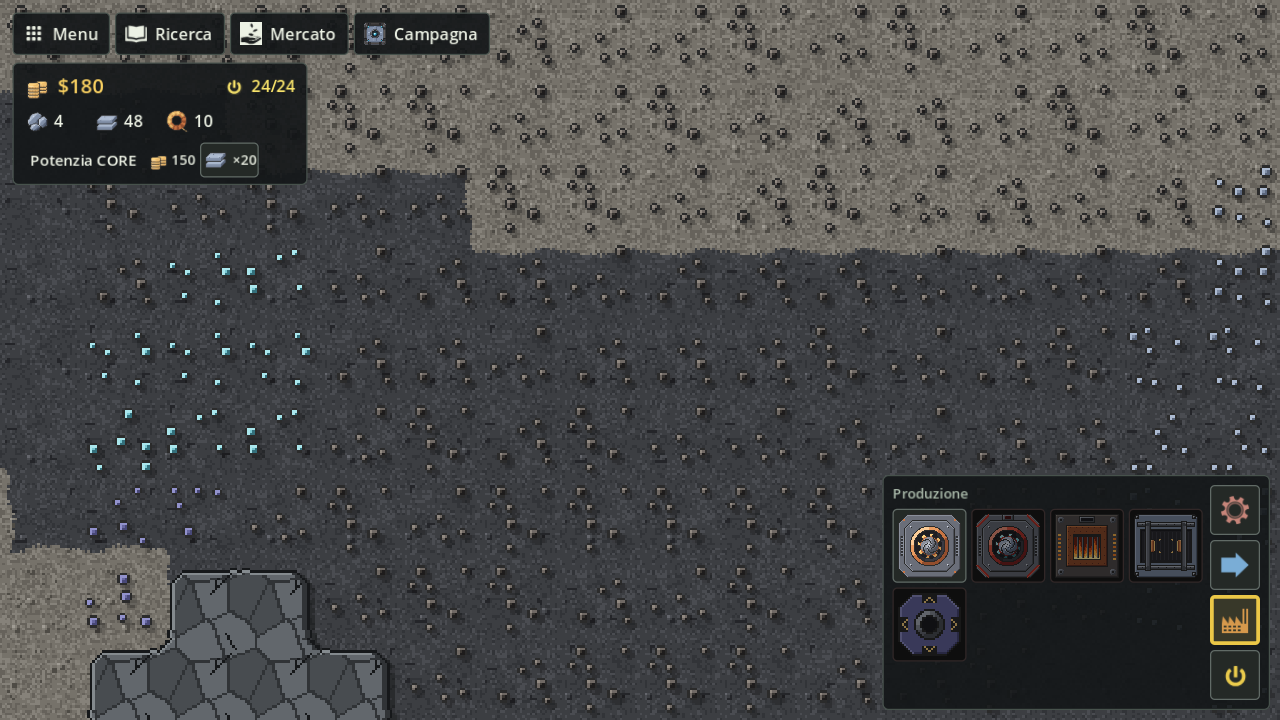
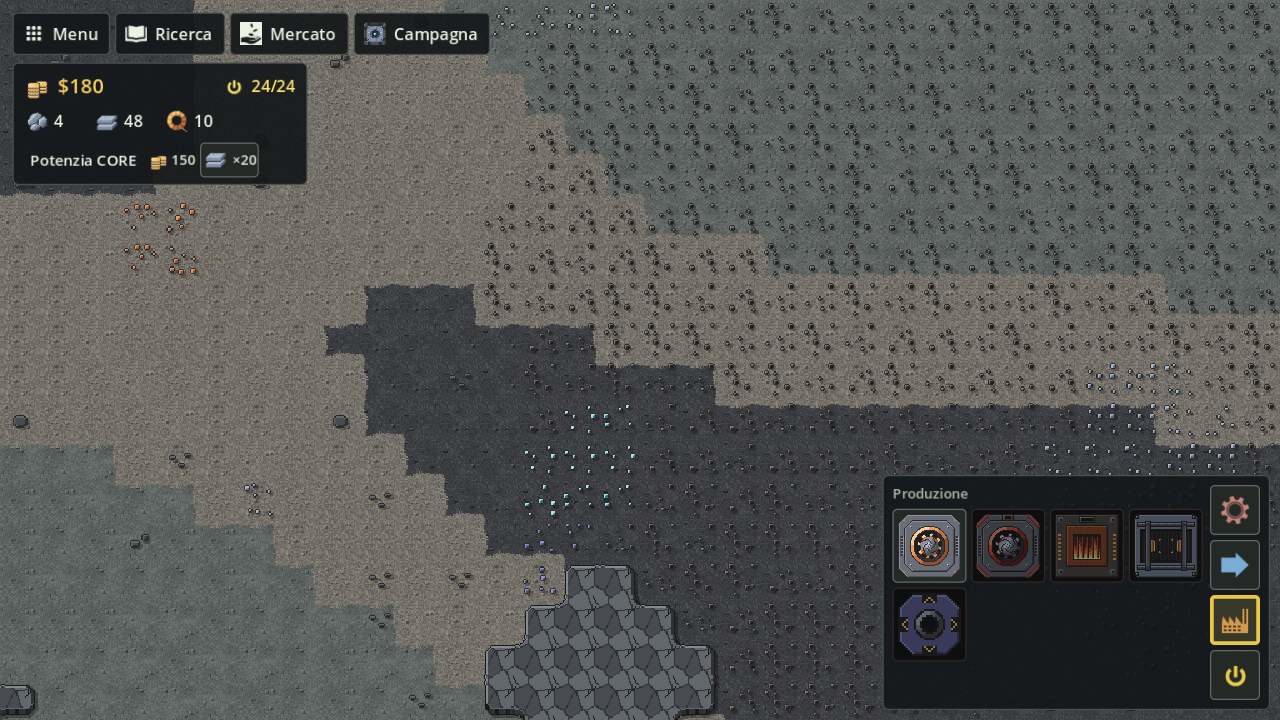
fix: ondata finale della G2b (documenti, colori medi, budget di composizione)
- ARCHITETTURA: mappa delle cartelle, sezione Client e ciclo di un frame
  con i due livelli di dettaglio (TerrainComposer, TerrainLook,
  water.gdshader, pezzi a colori 64x64 e d'arte 16x16); tavola-terreno e
  rampa in palette.py nei passi per lo sprite di un suolo.
- ATTRIBUTION: le famiglie di sprite del terreno tra la pixel-art
  originale generata.
- Decorazioni della sabbia: ciuffi secchi e una lastra chiara, niente
  ovali color rame.
- Client: i pezzi a colori usano il colore medio dell'arte di suoli e
  pareti (tabella invariata); composizione d'arte fermata oltre 3 ms per
  frame (almeno un pezzo); tetto della cache documentato (o i pezzi che
  la vista tocca).
- Playtest: cattura dei minerali a zoom 0,5 con tutti e 5; ERROR se
  l'arte non e' pronta; la prova PERF misura la memoria video.
- Catture del README e base candidata rigenerate; ADR 0004 e CHANGELOG.

diff --git a/godot/scripts/world/TerrainChunks.cs b/godot/scripts/world/TerrainChunks.cs
@@ -28,11 +28,20 @@ public partial class TerrainChunks : Node2D
     /// <summary>Cells a side of an art chunk: 512×512 px, 1 MiB of texture.</summary>
     public const int ArtChunkCells = 16;
 
-    /// <summary>Most art chunks kept alive (or the ones the view touches, if more).</summary>
+    /// <summary>
+    /// Most art chunks kept alive, or the ones the view and its margin touch if more (about 190 on a 4K screen at
+    /// zoom 0.25), so a big screen never evicts a chunk it is showing.
+    /// </summary>
     public const int MaxArtChunks = 96;
 
     /// <summary>Art chunks composed per frame at most, so a zoom-in or a fast pan never stalls a frame.</summary>
     public const int ArtChunksPerFrame = 4;
+
+    /// <summary>
+    /// Composition time per frame (ms) past which no further art chunk starts in that frame (at least one always
+    /// does): on a slower machine fewer than <see cref="ArtChunksPerFrame"/> per frame, never a longer frame.
+    /// </summary>
+    public const double ArtFrameBudgetMs = 3.0;
 
     /// <summary>Cell size on screen (px) from which the terrain is drawn with its art (zoom 0.25 with 64-unit cells).</summary>
     public const float ArtMinCellPx = 16f;
@@ -46,6 +55,7 @@ public partial class TerrainChunks : Node2D
     private readonly ChunkCache _art = new();
     private readonly List<(Vector2I Key, long Order)> _missingArt = [];
     private readonly Stopwatch _composeClock = new();
+    private readonly Stopwatch _frameClock = new();
     private Node2D _colourLayer = null!;
     private Node2D _artLayer = null!;
     private ShaderMaterial _water = null!;
@@ -130,21 +140,60 @@ public partial class TerrainChunks : Node2D
         {
             _look = table.Floors.Count > 0 ? new TerrainLook(table) : null;
             _sprites = _look is null ? null : new TerrainSprites(_look.SpriteNames);
+            // Colour chunks take the average colour of each floor's and wall's art, so the terrain keeps its tone
+            // across the two levels of detail; without art, the table colour (which itself never changes: it keys
+            // the campaign map PNGs).
+            _floorColors = Enum.GetValues<FloorKind>()
+                .Select(k => _look is not null && _sprites is not null
+                    ? AverageColor(Enumerable.Range(0, TerrainLook.Variants).Select(v => (_look.FloorSprite(k, v), 0)))
+                    : table.Floor(k) is { } floor ? Color.FromHtml(floor.Color) : MissingColor)
+                .ToArray();
+            _wallColors = Enum.GetValues<WallKind>()
+                .Select(k => _look?.WallSprite(k) is { } wallSprite && _sprites is not null
+                    ? AverageColor([(wallSprite, 15)])
+                    : table.Wall(k) is { } wall ? Color.FromHtml(wall.Color) : MissingColor)
+                .ToArray();
         }
 
         _map = map;
         _table = table;
         _tileSize = tileSize;
         _water.SetShaderParameter("art_pixel", tileSize / (float)TerrainLook.CellPixels);
-        _floorColors = Enum.GetValues<FloorKind>()
-            .Select(k => table.Floor(k) is { } floor ? Color.FromHtml(floor.Color) : MissingColor)
-            .ToArray();
-        _wallColors = Enum.GetValues<WallKind>()
-            .Select(k => table.Wall(k) is { } wall ? Color.FromHtml(wall.Color) : MissingColor)
-            .ToArray();
         BuiltSinceReset = 0;
         ArtBuiltSinceReset = 0;
         ResetProbe();
+    }
+
+    /// <summary>Average colour of the opaque pixels of the given pieces (sprite, piece index) of the terrain strips.</summary>
+    private Color AverageColor(IEnumerable<(string Sprite, int Index)> pieces)
+    {
+        long r = 0, g = 0, b = 0, n = 0;
+        foreach (var (name, index) in pieces)
+        {
+            var strip = _sprites!.Get(name);
+            var x0 = index * TerrainLook.CellPixels;
+            if (x0 + TerrainLook.CellPixels > strip.Width)
+            {
+                continue;
+            }
+
+            for (var y = 0; y < Math.Min(TerrainLook.CellPixels, strip.Height); y++)
+            {
+                for (var x = x0; x < x0 + TerrainLook.CellPixels; x++)
+                {
+                    var i = (y * strip.Width + x) * 4;
+                    if (strip.Rgba[i + 3] == 255)
+                    {
+                        r += strip.Rgba[i];
+                        g += strip.Rgba[i + 1];
+                        b += strip.Rgba[i + 2];
+                        n++;
+                    }
+                }
+            }
+        }
+
+        return n == 0 ? MissingColor : Color.Color8((byte)(r / n), (byte)(g / n), (byte)(b / n));
     }
 
     /// <summary>Restarts <see cref="ArtPeak"/> and <see cref="SlowestArtMs"/> (performance probe).</summary>
@@ -183,10 +232,12 @@ public partial class TerrainChunks : Node2D
         // Chunks in view first, then the margin; nearest the view centre first within each.
         _missingArt.Sort((a, b) => a.Order.CompareTo(b.Order));
         var cap = Math.Max(MaxArtChunks, artTouched);
-        var composed = Math.Min(ArtChunksPerFrame, _missingArt.Count);
-        for (var i = 0; i < composed; i++)
+        var composed = 0;
+        _frameClock.Restart();
+        while (composed < Math.Min(ArtChunksPerFrame, _missingArt.Count)
+               && (composed == 0 || _frameClock.Elapsed.TotalMilliseconds < ArtFrameBudgetMs))
         {
-            AddArtChunk(map, _missingArt[i].Key, cap);
+            AddArtChunk(map, _missingArt[composed++].Key, cap);
         }
 
         ArtPending = _missingArt.Count - composed;
@@ -310,8 +361,9 @@ public partial class TerrainChunks : Node2D
 
     /// <summary>
     /// Image of chunk (<paramref name="cx"/>, <paramref name="cy"/>), one pixel per cell; edge chunks are cut to the
-    /// map. Floors and walls take the terrain table colour with a small variation hashed from the cell (the same on
-    /// every build); walls are darkened with a lighter rim where they meet open ground.
+    /// map. Floors and walls take the average colour of their art (the table colour without art) with a small
+    /// variation hashed from the cell (the same on every build); walls are darkened with a lighter rim where they
+    /// meet open ground.
     /// </summary>
     private Image BuildChunkImage(int cx, int cy)
     {

diff --git a/godot/scripts/dev/World.Playtest.cs b/godot/scripts/dev/World.Playtest.cs
@@ -583,6 +583,7 @@ public partial class World
         var chunks = _terrainChunks!;
         using var process = System.Diagnostics.Process.GetCurrentProcess();
         var peakMemory = 0L;
+        var peakVideo = 0.0;
         var frame = 0;
         void SampleMemory()
         {
@@ -591,6 +592,7 @@ public partial class World
             {
                 process.Refresh();
                 peakMemory = Math.Max(peakMemory, process.WorkingSet64);
+                peakVideo = Math.Max(peakVideo, Performance.GetMonitor(Performance.Monitor.RenderVideoMemUsed));
             }
         }
 
@@ -636,13 +638,15 @@ public partial class World
         });
         process.Refresh();
         peakMemory = Math.Max(peakMemory, process.WorkingSet64);
+        peakVideo = Math.Max(peakVideo, Performance.GetMonitor(Performance.Monitor.RenderVideoMemUsed));
         var inv = System.Globalization.CultureInfo.InvariantCulture;
         return string.Create(inv,
             $"PLAYTEST perf arte: zoom 0.08-2-0.08 fps medio {zoom.Average:F0}, minimo {zoom.Minimum:F0}, "
             + $"frame più lento {1000 / zoom.Minimum:F1} ms, pezzi d'arte max {zoomPeak}, pezzo più lento {zoomSlowest:F1} ms; "
             + $"scorrimento a zoom 1 fps medio {pan.Average:F0}, minimo {pan.Minimum:F0}, "
             + $"frame più lento {1000 / pan.Minimum:F1} ms, pezzi d'arte max {chunks.ArtPeak}, pezzo più lento {chunks.SlowestArtMs:F1} ms; "
-            + $"pezzi d'arte creati {chunks.ArtBuiltSinceReset}; memoria massima del processo {peakMemory / (1024.0 * 1024.0):F0} MiB");
+            + $"pezzi d'arte creati {chunks.ArtBuiltSinceReset}; memoria massima del processo {peakMemory / (1024.0 * 1024.0):F0} MiB, "
+            + $"video massima {peakVideo / (1024.0 * 1024.0):F0} MiB");
     }
 
     /// <summary>Waits (at most 10 s) until the terrain art of the view is composed, so captures never catch colours.</summary>
@@ -654,12 +658,18 @@ public partial class World
         {
             await ToSignal(GetTree(), SceneTree.SignalName.ProcessFrame);
         }
+
+        if (_terrainChunks is { ArtShown: true, ArtPending: > 0 } chunks)
+        {
+            // The capture would catch colour chunks: the playtest log gets an ERROR line, so the run fails.
+            GD.PushError($"PLAYTEST: arte del terreno non pronta dopo 600 frame ({chunks.ArtPending} pezzi mancanti)");
+        }
     }
 
     /// <summary>
     /// Terrain art captures on the playtest map (G2b): the start at zoom 1 (<c>ui-terreno-partenza</c>), the window with
-    /// the most biomes (water counts as one) at zoom 0.5 (<c>ui-terreno-biomi</c>) and the one with the most ore kinds
-    /// at zoom 1 (<c>ui-terreno-minerali</c>); the camera goes back to the Core.
+    /// the most biomes (water counts as one) at zoom 0.5 (<c>ui-terreno-biomi</c>) and the one with the most ore kinds,
+    /// away from the HUD panels, at zoom 0.5 (<c>ui-terreno-minerali</c>); the camera goes back to the Core.
     /// </summary>
     private async Task PlaytestTerrainShotsAsync(Func<string, Task> shot)
     {
@@ -679,7 +689,7 @@ public partial class World
             .Select(k => table.Floor(k) is { } f ? biomes.IndexOf(f.Biome) : -1)
             .ToArray();
         var cells = GetViewportRect().Size / TileSize;
-        var biomesAt = BestWindow(map, (int)(cells.X * 2), (int)(cells.Y * 2), 8, biomes.Count, (x, y, seen) =>
+        var (biomesAt, _) = BestWindow(map, (int)(cells.X * 2), (int)(cells.Y * 2), 8, biomes.Count, (x, y, seen) =>
         {
             var b = biomeOf[(int)map[x, y].Floor];
             if (b >= 0)
@@ -692,7 +702,9 @@ public partial class World
         cam.ClampToMap();
         await shot("terreno-biomi");
 
-        var oresAt = BestWindow(map, (int)cells.X, (int)cells.Y, 4, Enum.GetValues<DepositKind>().Length, (x, y, seen) =>
+        // Scored on the middle of the zoom 0.5 view only, so no ore hides under the HUD panels in the corners.
+        var ores = Enum.GetValues<DepositKind>().Length - 1;
+        var (oresAt, oreKinds) = BestWindow(map, (int)(cells.X * 1.5f), (int)(cells.Y * 1.4f), 4, ores + 1, (x, y, seen) =>
         {
             var d = (int)map[x, y].Deposit;
             if (d > 0)
@@ -700,19 +712,21 @@ public partial class World
                 seen[d] = true;
             }
         });
+        GD.Print($"PLAYTEST terreno: {oreKinds} minerali su {ores} nella cattura dei minerali");
         cam.Position = oresAt * TileSize;
-        cam.Zoom = Vector2.One;
+        cam.Zoom = new Vector2(0.5f, 0.5f);
         cam.ClampToMap();
         await shot("terreno-minerali");
         FocusCameraOnCore();
     }
 
     /// <summary>
-    /// Centre (in cells) of the <paramref name="w"/>×<paramref name="h"/> window, on a grid of <paramref name="step"/>
+    /// Centre (in cells) and number of kinds of the <paramref name="w"/>×<paramref name="h"/> window, on a grid of <paramref name="step"/>
     /// cells, where <paramref name="mark"/> sees the most of <paramref name="kinds"/> distinct kinds (every other cell
     /// sampled); the first in row order wins a tie, so the choice is the same on every run.
     /// </summary>
-    private static Vector2 BestWindow(TerrainMap map, int w, int h, int step, int kinds, Action<int, int, bool[]> mark)
+    private static (Vector2 Centre, int Kinds) BestWindow(
+        TerrainMap map, int w, int h, int step, int kinds, Action<int, int, bool[]> mark)
     {
         var best = (Score: -1, X: 0, Y: 0);
         var seen = new bool[kinds];
@@ -737,7 +751,7 @@ public partial class World
             }
         }
 
-        return new Vector2(best.X + w / 2f, best.Y + h / 2f);
+        return (new Vector2(best.X + w / 2f, best.Y + h / 2f), best.Score);
     }
 
     /// <summary>Frames for <paramref name="seconds"/>, running <paramref name="perFrame"/> before each: average and worst-frame FPS.</summary>

diff --git a/tools/art/blocchi/terreno.py b/tools/art/blocchi/terreno.py
@@ -34,7 +34,7 @@ import forme
 from blocchi import sprite
 from blocchi.oggetti import OGGETTI
 from palette import (CARBONE, ERBA, FULIGGINE, GHIACCIO, MUSCHIO, NEVE, OUT, PARETE_ARBUSTI, PARETE_GHIACCIO,
-                     PARETE_PIETRA, PARETE_SABBIA, PARETI, SABBIA, SABBIA_SCURA, SUOLI)
+                     PARETE_PIETRA, PARETI, SABBIA, SABBIA_SCURA, SUOLI)
 
 T = 32
 VARIANTI = 4
@@ -511,6 +511,7 @@ def _cristallo(im, cx, base, altezza, larghezza, rampa):
 
 
 # Angular boulder (faceted outline, taller on the left) for the capped decorations.
+_LASTRA = [(8, 22), (10, 16), (18, 14), (25, 17), (24, 23), (15, 25)]  # pale flat slab
 _MASSO = [(9, 24), (9, 18), (12, 12), (15, 10), (18, 13), (21, 13), (24, 17), (24, 22), (21, 25), (12, 25)]
 
 
@@ -537,14 +538,16 @@ def _deco(bioma, n):
             for cx, cy in ((10, 14), (17, 20), (22, 12)):
                 _sasso(im, _ellisse(cx, cy, 3, 2.5), roccia)
     elif bioma == "sabbia":
-        secco = [SABBIA_SCURA[0], SABBIA_SCURA[2], SABBIA[3], SABBIA[4]]
+        secco = [SABBIA_SCURA[0], SABBIA_SCURA[1], SABBIA_SCURA[2], SABBIA_SCURA[4]]
+        # Dry tufts and pale angular slabs in the sand's own tones: nothing round and orange that
+        # could pass for copper ore pebbles on the same floor.
         if n == 0:
             _ciuffo(im, 16, 22, ((-0.6, 7), (-0.3, 9), (0.0, 10), (0.25, 9), (0.55, 7), (0.9, 5)), secco)
         elif n == 1:
-            _sasso(im, _ellisse(16, 18, 6, 4), PARETE_SABBIA[1:])
+            _ciuffo(im, 11, 21, ((-0.5, 5), (-0.2, 7), (0.1, 6), (0.45, 4)), secco)
+            _ciuffo(im, 21, 24, ((-0.4, 4), (0.0, 6), (0.35, 5)), secco)
         else:
-            _sasso(im, _ellisse(12, 17, 4, 3), PARETE_SABBIA[1:])
-            _sasso(im, _ellisse(20, 21, 3, 2.5), PARETE_SABBIA[1:])
+            _sasso(im, forme.poligono(_LASTRA), [SABBIA_SCURA[2], SABBIA[4], NEVE[1], NEVE[3]])
     elif bioma == "neve":
         if n == 0:
             _cristallo(im, 16, 23, 13, 4, PARETE_GHIACCIO[1:])

diff --git a/src/TIndustry.Shared/Grid/TerrainLook.cs b/src/TIndustry.Shared/Grid/TerrainLook.cs
@@ -118,6 +118,23 @@ public sealed class TerrainLook
             .Concat(_walls.Select(w => w.Sprite))
             .Distinct(StringComparer.Ordinal);
 
+    /// <summary>Sprite of variant <paramref name="variant"/> of floor <paramref name="floor"/>.</summary>
+    public string FloorSprite(FloorKind floor, int variant) => _floorSprites[(int)floor][variant];
+
+    /// <summary>Dual-grid strip of <paramref name="wall"/>, or null for none or a wall missing from the table.</summary>
+    public string? WallSprite(WallKind wall)
+    {
+        foreach (var (kind, sprite) in _walls)
+        {
+            if (kind == wall)
+            {
+                return sprite;
+            }
+        }
+
+        return null;
+    }
+
     /// <summary>32-bit hash of a cell (<c>hash_cella</c> in terreno.py, bit for bit).</summary>
     public static uint CellHash(int x, int y, int salt)
     {

diff --git a/docs/ARCHITETTURA.md b/docs/ARCHITETTURA.md
@@ -18,7 +18,7 @@ tIndustry/
 │  ├─ Simulation/               SimulationClock, GameState, Simulation, Systems/ (otto sistemi), Commands, SimEvents, SimHost, IGameView, Snapshot, NewGame
 │  ├─ Construction/             GameRules, BuildSpec, BuilderUnit (drone e BuildPlan), ConstructSite, Construction (formula, prelievo, rimborso)
 │  ├─ Content/                  ContentTypes, FactoryContent, ConveyorContent, MarketCatalog, ItemVisualColors
-│  ├─ Grid/                     GridTypes, BeltGrid, BeltLane, TransportedItem, TerrainMap, ClassicTerrainGenerator, MapGenerator, MapGenSettings, Noise, CampaignMapFile, PngReader, PngWriter
+│  ├─ Grid/                     GridTypes, BeltGrid, BeltLane, TransportedItem, TerrainMap, TerrainLook (scelte dell'arte del terreno), ClassicTerrainGenerator, MapGenerator, MapGenSettings, Noise, CampaignMapFile, PngReader, PngWriter
 │  ├─ Buildings/                Miner, Crafter (forno e assemblatore), Extractor, BuildingIo, CoreStockSink
 │  ├─ Power/                    Generator, PowerNode
 │  ├─ Economy/                  EconomyWallet, EconomySession
@@ -28,10 +28,10 @@ tIndustry/
 ├─ godot/
 │  ├─ project.godot · export_presets.cfg · TIndustry.Godot.csproj
 │  ├─ scenes/Main.tscn          scena principale (nodo radice Main, script World)
-│  ├─ shaders/                  construct (cantieri)
+│  ├─ shaders/                  construct (cantieri), water (increspature dell'acqua sui pezzi d'arte del terreno)
 │  ├─ assets/                   sprite generati da tools/art (cartella piatta); ui/ per le icone dell'interfaccia + ATTRIBUTION.md
 │  └─ scripts/
-│     ├─ world/                 World + partial (Input, Placement, Session, Drawing, Visuals, Panels), TerrainChunks, WorldCamera
+│     ├─ world/                 World + partial (Input, Placement, Session, Drawing, Visuals, Panels), TerrainChunks, TerrainComposer, WorldCamera
 │     ├─ visuals/               Sprites (unico accesso alle texture di assets/)
 │     ├─ visuals/belts/         MindustryBeltVisual, ScrollingBeltStrip, BeltCornerTile, BridgeSpanVisual
 │     ├─ visuals/buildings/     MinerVisual, SmelterVisual, AssemblerVisual, GeneratorVisual, ExtractorVisual, BuildingPad
@@ -105,7 +105,7 @@ Il terreno è dato, non stato: non entra nell'istantanea e si rifà da generator
 - **Regole.** `Factory.TerrainBlocks`, chiamato da `CanOccupyFootprint`, è l'unico punto che legge il terreno per il piazzamento: parete o acqua profonda bloccano, fuori mappa è occupato, l'acqua bassa si costruisce. Ci passano comandi istantanei, piani del drone (`SimHost.QueuePlan`, `BuilderSystem`), cantieri e ripristino dei salvataggi; il ponte controlla solo le sue due estremità. `Factory.RefusalReason` dà il motivo, nell'ordine `OnCore`, `Wall`, `DeepWater`, `Occupied` (`CommandReasons`). I minatori non controllano il terreno.
 - **Generatori.** `ClassicTerrainGenerator` è il generatore di prima della G2a, congelato (impronte in `ClassicGeneratorTests`): lo usano i salvataggi v11 e, per default, `NewGame.Sandbox` e `NewGame.Campaign` nei test. `MapGenerator` (`"biomi-1"`; i primi salvataggi v12 dicono `"biomi"`, stesso generatore) genera da `MapGenSettings` (lato, seme, biomi, percentuali di pareti, acqua e giacimenti; `MapGenSettings.Normal(MapSize, seme)` per le partite del client) con il rumore intero di `Noise`; `MapGenerator.Reaches` è il riempimento che verifica la partenza. `NewGame.Sandbox(..., map: settings)` sceglie il generatore a biomi. **Non modificare un generatore pubblicato: aggiungine uno nuovo.** I salvataggi rigenerano il terreno dal nome del generatore; una generazione diversa prende un nome nuovo (`"biomi-2"`), `Factory.RestoreTerrain` sceglie per nome e le impronte fissate nei test non si aggiornano mai.
 - **Campagna.** `CampaignMapFile` carica e valida le mappe di `data/maps/` (formato nella sezione [Dati](#dati)); `PngReader` le decodifica e `PngWriter` le scrive (per `MapTool` e i test).
-- **Client.** `TerrainChunks` (`godot/scripts/world/`) disegna il terreno a pezzi (vedi il [ciclo di un frame](#ciclo-di-un-frame)); `TerrainChunks.BuildChunkImage` è l'unico punto in cui una cella diventa un colore. Il fantasma del piazzamento è rosso su pareti e acqua profonda, con il motivo in un suggerimento in basso.
+- **Client.** `TerrainChunks` (`godot/scripts/world/`) disegna il terreno a pezzi, a due livelli di dettaglio (vedi il [ciclo di un frame](#ciclo-di-un-frame)). Le celle diventano pixel in due punti soltanto: `TerrainChunks.BuildChunkImage` per i pezzi a colori e `TerrainComposer.Compose` per quelli d'arte. Le scelte dell'arte (variante, bordi, pareti a doppia griglia, giacimenti, decorazioni) sono in `TerrainLook` (`src/TIndustry.Shared/Grid/`), copia della regola di `tools/art/tavola.py` controllata da una fixture; il client fa solo i blit. Regola e pezzi: [ADR 0004](decisioni/0004-arte-generata-da-script.md), sezione "Terreno (G2b)". Il fantasma del piazzamento è rosso su pareti e acqua profonda, con il motivo in un suggerimento in basso.
 
 ## Ciclo di un frame
 
@@ -113,7 +113,7 @@ Il terreno è dato, non stato: non entra nell'istantanea e si rifà da generator
 2. `_Process` chiama `World.AdvanceHost(delta)` (`World.Commands.cs`), che chiama `SimHost.Advance(delta)`: l'orologio restituisce quanti tick fissi eseguire (al massimo 5); a ogni tick l'host applica i comandi in coda e chiama `Factory.Step()` → `Simulation.Step`. Gli eventi `CommandApplied` / `CommandRejected` e quelli della simulazione (`EventRaised`: `PlanDropped`, `ConstructFinished`, `DeconstructFinished`) arrivano a `World` (toast, aggiornamento di visual e pannelli).
 3. `World.SyncConstructionVisuals` aggiorna il livello della costruzione (`ConstructionLayer.Sync`: piani, cantieri, droni) e segnala quali visual dei blocchi rifare. Se la griglia o gli edifici sono cambiati, `World` ricostruisce i visual dei nastri e degli edifici leggendo `IGameView`; poi sincronizza sprite degli oggetti, tooltip del cantiere fermo (`World.SyncSiteTooltip`) e animazioni (`World.Visuals.cs`, `godot/scripts/visuals/`).
 4. `World.UpdateHud` chiama `Hud.UpdateStock`, che inoltra a `CorePanel` (fondi, energia, risorse); `BuildPalette` e `BlockInfoPanel` seguono selezione e sblocchi; `Hud.SyncBuildQueue` aggiorna la coda del drone (`BuildQueuePanel`).
-5. Controllo di completamento della campagna e `QueueRedraw` (`World.Drawing.cs` disegna griglia, giacimenti e fantasma sopra il terreno). Il terreno è `TerrainChunks`: pezzi di 64×64 celle, ognuno una `Sprite2D` con un'immagine di un pixel per cella (colore della tabella `terrain` con una variazione fissa da hash della cella) ingrandita ×64, creati solo attorno alla vista e tenuti in una cache LRU di 256; si rifanno solo quando cambia la mappa (nuova partita, livello, caricamento).
+5. Controllo di completamento della campagna e `QueueRedraw` (`World.Drawing.cs` disegna griglia, giacimenti e fantasma sopra il terreno). Prima, in `World._Process`, `World.SyncTerrainChunks` passa a `TerrainChunks.Sync` le celle in vista e i px per cella a schermo. Il terreno ha due livelli di dettaglio. **A colori**, sempre presenti: pezzi di 64×64 celle, ognuno una `Sprite2D` con un'immagine di un pixel per cella (colore medio dell'arte di quel suolo o parete, calcolato una volta dagli sprite, con una variazione fissa da hash della cella) ingrandita ×64, creati attorno alla vista e tenuti in una cache LRU di 256. **D'arte**, da 16 px per cella a schermo (zoom 0,25) in su, disegnati sopra: pezzi di 16×16 celle (512×512 px, 1 MiB) composti da `TerrainComposer.Compose` con i pezzi di `TerrainLook.Plan`, con lo shader `water.gdshader` (increspature in coordinate del mondo dove l'alfa del pezzo segna l'acqua scoperta), in una cache LRU di 96 pezzi (o quelli che la vista tocca, se di più: circa 190 su uno schermo 4K); ne compone al massimo 4 per frame e smette quando la composizione del frame supera 3 ms (almeno uno sempre), quelli in vista e più vicini al centro prima. Finché un pezzo d'arte manca si vede il colore sotto e restano i marcatori dei giacimenti; a cache piena il pezzo meno usato presta la sua texture al nuovo. I pezzi si rifanno solo quando cambia la mappa (nuova partita, livello, caricamento). Sopra l'arte la griglia è nascosta e compare tenue solo con uno strumento di costruzione.
 
 Con la Home aperta o senza partita il frame salta i passi 2–5.
 
@@ -196,10 +196,11 @@ Gli sprite di edifici, nastri, Core, drone e oggetti sono pixel-art originale ge
 Dopo i passi di "Come aggiungere un suolo, una parete o un livello":
 
 1. In `data/content.json` → `terrain` dai al suolo `edgePriority` (più alto = disegna il bordo sui vicini; l'acqua è la più bassa).
-2. In `tools/art/blocchi/terreno.py` aggiungi la riga in `STILI` (suolo) o `STILI_PARETI` (parete): il test `test_stili_terreno` pretende una riga per ogni id della tabella, e la registrazione produce da sola `terreno-<id>-0…3`, `terreno-<id>-bordo` o `parete-<id>`. Per un bioma nuovo servono anche le `deco-<bioma>-<n>` e la sua densità (`DENSITA_DECO` in Python, `DecorationDensity` in `TerrainLook`).
-3. `python tools/art/genera.py`, guarda `.dev/arte/tavola.png`, poi rigenera la fixture con `python tools/art/fixture_terreno.py` (`--controlla` dice se serve).
-4. `python -m unittest tools/art/test_genera.py` e `dotnet test` (`TerrainLookTests.MatchesPythonReference` confronta Python e C# sulla fixture).
-5. Importa i PNG in Godot per avere i `.import` e fai il commit di sprite, `.import` e fixture insieme. Il client non va toccato: `TerrainSprites` legge i nomi dalla tabella.
+2. In `tools/art/palette.py` aggiungi la rampa del suolo o della parete (`SUOLI` / `PARETI`, per id, col tono centrale vicino al colore della tabella): `test_terreno_copertura` la pretende.
+3. In `tools/art/blocchi/terreno.py` aggiungi la riga in `STILI` (suolo) o `STILI_PARETI` (parete): il test `test_stili_terreno` pretende una riga per ogni id della tabella, e la registrazione produce da sola `terreno-<id>-0…3`, `terreno-<id>-bordo` o `parete-<id>`. Per un bioma nuovo servono anche le `deco-<bioma>-<n>` e la sua densità (`DENSITA_DECO` in Python, `DecorationDensity` in `TerrainLook`).
+4. `python tools/art/genera.py`, guarda `.dev/arte/tavola-terreno.png` (finestre composte per bioma), poi rigenera la fixture con `python tools/art/fixture_terreno.py` (`--controlla` dice se serve).
+5. `python -m unittest tools/art/test_genera.py` e `dotnet test` (`TerrainLookTests.MatchesPythonReference` confronta Python e C# sulla fixture).
+6. Importa i PNG in Godot per avere i `.import` e fai il commit di sprite, `.import` e fixture insieme. Il client non va toccato: `TerrainSprites` legge i nomi dalla tabella.
 
 ## Test e playtest
 
@@ -212,4 +213,4 @@ tools/dev/playtest.sh ui /tmp/shots-ui          # anche: tutorial
 python tools/dev/compare_shots.py <baseline> <nuovi>
 ```
 
-`tools/dev/playtest.sh` lancia Godot con `TINDUSTRY_PLAYTEST` e un profilo dati temporaneo (`TINDUSTRY_DATA_DIR`), salva gli screenshot e `log.txt` nella cartella indicata ed esce con 0 solo se il log contiene `PLAYTEST OK` e nessun `ERROR`. Il codice dei playtest è `godot/scripts/dev/World.Playtest.cs`; durante la prova gli input reali sono ignorati. Con `TINDUSTRY_PLAYTEST_PERF=1` il playtest `ui` posa anche 200 nastri e 100 edifici a strati al lavoro (forni, assemblatori, generatori, minatori) e stampa FPS medio e minimo e numero di nodi (`PLAYTEST perf: …`); alla fine apre una mappa Enorme (2000², seme 42) a zoom minimo, salva `ui-enorme-zoom-min.png` e stampa FPS medio e minimo da fermo e scorrendo la mappa, pezzi di terreno e memoria (`PLAYTEST perf enorme: …`), senza esito. Con `TINDUSTRY_PLAYTEST_BLOCCHI=1` costruisce ogni blocco di produzione e potenza spento e acceso e salva `ui-blocchi-spenti.png`, `ui-blocchi-accesi.png`, `ui-blocchi-zoom04.png`, `ui-blocchi-core.png` (Core e drone da vicino) e `ui-blocchi-oggetti.png` (ogni oggetto sui tre nastri), senza esito. `compare_shots.py` confronta due cartelle di screenshot ignorando la zona del contatore FPS.
+`tools/dev/playtest.sh` lancia Godot con `TINDUSTRY_PLAYTEST` e un profilo dati temporaneo (`TINDUSTRY_DATA_DIR`), salva gli screenshot e `log.txt` nella cartella indicata ed esce con 0 solo se il log contiene `PLAYTEST OK` e nessun `ERROR`. Il codice dei playtest è `godot/scripts/dev/World.Playtest.cs`; durante la prova gli input reali sono ignorati. Con `TINDUSTRY_PLAYTEST_PERF=1` il playtest `ui` posa anche 200 nastri e 100 edifici a strati al lavoro (forni, assemblatori, generatori, minatori) e stampa FPS medio e minimo e numero di nodi (`PLAYTEST perf: …`); alla fine apre una mappa Enorme (2000², seme 42) a zoom minimo, salva `ui-enorme-zoom-min.png` e stampa FPS medio e minimo da fermo e scorrendo la mappa, pezzi di terreno e memoria (`PLAYTEST perf enorme: …`), poi zoom 0,08→2→0,08 e scorrimento a zoom 1 con FPS, frame e pezzo d'arte più lenti, numero massimo di pezzi d'arte, memoria massima del processo e video (`PLAYTEST perf arte: …`), senza esito. Con `TINDUSTRY_PLAYTEST_BLOCCHI=1` costruisce ogni blocco di produzione e potenza spento e acceso e salva `ui-blocchi-spenti.png`, `ui-blocchi-accesi.png`, `ui-blocchi-zoom04.png`, `ui-blocchi-core.png` (Core e drone da vicino) e `ui-blocchi-oggetti.png` (ogni oggetto sui tre nastri), senza esito. `compare_shots.py` confronta due cartelle di screenshot ignorando la zona del contatore FPS.

diff --git a/docs/decisioni/0004-arte-generata-da-script.md b/docs/decisioni/0004-arte-generata-da-script.md
@@ -47,13 +47,13 @@ Specifica: [2026-10-18-g1-arte-blocchi-design](../superpowers/specs/2026-10-18-g
 
 Il terreno usa lo stesso generatore e le stesse regole degli altri sprite. Il colore di ogni suolo nella tabella `terrain` di `data/content.json` non cambia (è la chiave delle mappe PNG della campagna): le rampe dell'arte stanno in `tools/art/palette.py`.
 
-- **Pezzi e nomi.** Suoli `terreno-<suolo>-<n>` (4 varianti 32×32, scelte da un hash della cella); bordi `terreno-<suolo>-bordo` (striscia di 8 pezzi: N, E, S, O, NE, SE, SO, NO); pareti `parete-<parete>` (striscia di 16 pezzi); giacimenti `giacimento-<oggetto>-<n>` (puntini, il carbone con un riflesso chiaro sul bordo perché si legga su basalto e ghiaia); decorazioni `deco-<bioma>-<n>` (2-3 per bioma, solo grafica, mai su pareti, acqua o giacimenti); acqua con un fondale fermo per ogni profondità.
+- **Pezzi e nomi.** Suoli `terreno-<suolo>-<n>` (4 varianti 32×32, scelte da un hash della cella); bordi `terreno-<suolo>-bordo` (striscia di 8 pezzi: N, E, S, O, NE, SE, SO, NO); pareti `parete-<parete>` (striscia di 16 pezzi); giacimenti `giacimento-<oggetto>-<n>` (puntini, il carbone con un riflesso chiaro sul bordo perché si legga su basalto e ghiaia); decorazioni `deco-<bioma>-<n>` (2-3 per bioma, solo grafica, mai su pareti, acqua o giacimenti, e mai tonde e colorate come un minerale: nella sabbia ciuffi secchi e lastre chiare); acqua con un fondale fermo per ogni profondità.
 - **Bordi.** Ogni suolo ha `edgePriority` nella tabella: il suolo a priorità più alta disegna il suo bordo sulle celle vicine a priorità più bassa; l'acqua ha la più bassa. Un pezzo d'angolo si disegna solo se nessuno dei due lati accanto ha lo stesso suolo del diagonale (altrimenti restano tacche scure sui lati).
 - **Pareti a doppia griglia.** Ogni parete si disegna sugli angoli tra le celle, non sulle celle: i 4 angoli intorno a un punto danno un indice 0-15 (NO=1, NE=2, SE=4, SO=8) e la striscia ha il pezzo giusto per ognuno. Sono roccia in rilievo: faccia superiore chiara, fianco scuro a sud e a est, contorno angolare, così il ghiaccio non si scambia per acqua.
 - **Acqua.** Fondale fermo più increspature procedurali in uno shader (`godot/shaders/water.gdshader`) in coordinate del mondo: un solo valore per pixel d'arte, nessuna ripetizione visibile da un pezzo all'altro. Nei playtest il tempo dello shader resta fermo, così le catture sono stabili. Le strisce `acqua-*-anim` restano generate ma il client non le usa.
 - **Un solo calcolo, due lingue.** `TerrainLook` (`src/TIndustry.Shared/Grid/`) porta in C# la regola di `tools/art/tavola.py` (hash della cella, maschera delle pareti, bordi, decorazioni). Una fixture (`tests/TIndustry.Shared.Tests/Fixtures/terrain-look-24.json`, scritta da `tools/art/fixture_terreno.py`) con una mappa 24×24 e i suoi 1938 pezzi attesi fa fallire il test se le due si separano; `fixture_terreno.py --controlla` e un test Python dicono se è da rigenerare.
-- **Due livelli di dettaglio.** Sotto 16 px per cella a schermo (zoom sotto 0,25) restano i pezzi a colori piatti da 64×64 celle. Da 16 px in su si compongono pezzi d'arte da 16×16 celle (512×512 px, 1 MiB) con cache LRU di 96 pezzi, al massimo 4 composizioni nuove per frame; finché un pezzo d'arte manca si vede il colore sotto. A cache piena il pezzo meno usato presta la sua texture. La griglia delle celle è nascosta al livello d'arte e compare molto tenue solo con uno strumento di costruzione attivo; i marcatori dei giacimenti si disegnano solo a colori, l'arte ha i suoi puntini.
-- **Prestazioni** (playtest `ui` con `TINDUSTRY_PLAYTEST_PERF=1`, 1280×720, senza VSync, 2026-10-18): Enorme 2000×2000 a zoom minimo 240 FPS di media (il tetto della macchina), zoom 0,08-2-0,08 239, scorrimento a zoom 1 235; pezzo d'arte da circa 3 ms; la creazione della prima texture costa una volta circa 14 ms (allocazione del driver, accettata); processo circa 555 MiB.
+- **Due livelli di dettaglio.** Sotto 16 px per cella a schermo (zoom sotto 0,25) restano i pezzi a colori piatti da 64×64 celle. Da 16 px in su si compongono pezzi d'arte da 16×16 celle (512×512 px, 1 MiB) con cache LRU di 96 pezzi (o quelli che la vista tocca, se di più: circa 190 su uno schermo 4K a zoom 0,25), al massimo 4 composizioni nuove per frame e non oltre 3 ms di composizione per frame (almeno una); finché un pezzo d'arte manca si vede il colore sotto. I pezzi a colori usano il colore medio dell'arte di ogni suolo e parete, così il tono non salta al cambio di livello (la tabella resta com'è). A cache piena il pezzo meno usato presta la sua texture. La griglia delle celle è nascosta al livello d'arte e compare molto tenue solo con uno strumento di costruzione attivo; i marcatori dei giacimenti si disegnano a colori e sulle celle il cui pezzo d'arte non è ancora pronto; l'arte ha i suoi puntini.
+- **Prestazioni** (playtest `ui` con `TINDUSTRY_PLAYTEST_PERF=1`, 1280×720, senza VSync, 2026-10-18): Enorme 2000×2000 a zoom minimo 240 FPS di media (il tetto della macchina), zoom 0,08-2-0,08 239, scorrimento a zoom 1 239 (frame più lento 13,8 ms); pezzo d'arte da circa 3 ms; la creazione di una texture nuova può costare una volta circa 14 ms (allocazione del driver, accettata); processo circa 557 MiB, memoria video al massimo 132 MiB.
 
 ## Conseguenze
 

diff --git a/CHANGELOG.md b/CHANGELOG.md
@@ -14,7 +14,7 @@ Il formato è ispirato a [Keep a Changelog](https://keepachangelog.com/); il ver
 
 ### Documentazione
 
-- **Arte del terreno** (G2b 3/3): sezione "Terreno (G2b)" nell'ADR 0004 (nomi e pezzi degli sprite, bordi con priorità, pareti a doppia griglia, acqua con shader, `TerrainLook` e fixture, due livelli di dettaglio, prestazioni), "Come aggiungere lo sprite di un suolo" in `docs/ARCHITETTURA.md`, README con catture vere del terreno e roadmap, mappa Obsidian con la G2b fatta e la G3 in corso. Base candidata degli screenshot in `.dev/baseline-g2b-candidata`, da approvare
+- **Arte del terreno** (G2b 3/3): sezione "Terreno (G2b)" nell'ADR 0004 (nomi e pezzi degli sprite, bordi con priorità, pareti a doppia griglia, acqua con shader, `TerrainLook` e fixture, due livelli di dettaglio, prestazioni), "Come aggiungere lo sprite di un suolo" in `docs/ARCHITETTURA.md`, README con catture vere del terreno e roadmap, mappa Obsidian con la G2b fatta e la G3 in corso. Ondata finale di correzioni: ARCHITETTURA descrive i due livelli di dettaglio (`TerrainComposer`, `TerrainLook`, `water.gdshader`); i pezzi a colori usano il colore medio dell'arte di ogni suolo e parete (niente salto di tono cambiando zoom; colori della tabella invariati); composizione dei pezzi d'arte limitata anche a 3 ms per frame (scorrendo a zoom 1 il frame più lento passa da 23 a 14 ms); decorazioni della sabbia a ciuffi secchi e lastre chiare, non più ovali color rame; cattura dei minerali a zoom 0,5 con tutti e 5; la prova PERF misura anche la memoria video (al massimo 132 MiB); il playtest segnala ERROR se l'arte non è pronta; terreno nelle attribuzioni. Base candidata degli screenshot in `.dev/baseline-g2b-candidata`, da approvare
 - **Mappe a seme e in file** (G2a 6/6): nuovo ADR `docs/decisioni/0005-mappe-seme-e-file.md` (cella di 3 byte, tabella `terrain`, regole in un solo punto, generatore classico congelato, generatore a biomi con rumore intero e partenza garantita, mappe della campagna in file, salvataggi v12). `docs/ARCHITETTURA.md` ha la sezione "Terreno e mappe" e "Come aggiungere un suolo, una parete o un livello"; `CLAUDE.md` le mappe in `data/maps/` e il comando di `MapTool`; `godot/README.md` la schermata Nuova partita, le misure, il seme, pareti e acqua; README, indice delle decisioni, spec e mappa Obsidian aggiornati (G2a fatta, G2b in corso). Rifiniture dalle revisioni: `PngReader` limita i dati compressi alla misura dell'intestazione e rifiuta i dati in eccesso; un id di mappa nel salvataggio segue la stessa regola dei file delle mappe; il caricamento di una partita dalla Home o da Gestione salvataggi mostra l'errore invece di perderlo, e tasti e clic sono ignorati mentre la mappa si genera. Ondata finale di correzioni della G2a: il generatore a biomi ha un nome con versione (`biomi-1`, congelato; `biomi` dei primi salvataggi vale uguale) e il salvataggio tiene l'impronta del terreno, così un terreno rigenerato diverso ferma il caricamento con un messaggio chiaro; un ponte senza uscita su pareti o acqua profonda dice il motivo vero; senza la cartella `data/maps` un livello della campagna mostra l'errore invece di ripiegare sul generatore classico; la partita di sfondo dietro la Home è una mappa piccola (256², più veloce all'avvio); gli errori di Nuova partita compaiono sul pannello; il drone fermo non oscilla nei playtest
 - **Arte generata da script** (G1 6/6): nuovo ADR `docs/decisioni/0004-arte-generata-da-script.md` (perché da script, tavolozza e luce, nomi e tier, strisce quadrate, dipendenza da Pillow 12.3), sezione "Grafica e sprite" con "Come aggiungere lo sprite di un blocco" in `docs/ARCHITETTURA.md`, regola in `CLAUDE.md` (sprite solo da `tools/art/genera.py`, mai PNG ritoccati a mano), README con catture vere della grafica nuova e roadmap aggiornata, mappa Obsidian con la G1 fatta e la G2a in corso. Pulizia: tolti `core.png` (copia non usata di `core-1`) e `ui/settings.png` (non usata); i bracci chiusi dell'assemblatore ora si toccano senza sovrapporsi; il minerale e le lastre di piombo tendono al blu-violetto per non confondersi col ferro sui nastri; un `-belt.png` mancante dà un avviso
 - **Rifiniture finali della G1**: le parti animate (trivelle, forni, rotori, luce del Core) partono da una fase legata alla posizione del blocco, così blocchi vicini non vanno all'unisono; i nastri di un tier condividono una sola texture animata (un aggiornamento per tier, non per cella); carbone e titanio sui nastri hanno un bordo chiaro dentro il contorno scuro; le icone dei blocchi nella palette sono nitide (scala intera, filtro Nearest); i colori piatti del piombo (giacimenti, filtro dell'estrattore) seguono il blu-violetto degli sprite; l'icona Campagna passa da `Sprites`. In CI (workflow manuali e di release) girano i test del generatore e `--controlla --pixel` (confronto dei pixel: su Linux i byte dei PNG sono diversi), con un controllo che in `godot/assets/` ci siano solo sprite generati. Il playtest di prestazioni misura anche 100 edifici a strati al lavoro (235 FPS di media, 166 di minimo, 844 nodi)

diff --git a/godot/assets/ATTRIBUTION.md b/godot/assets/ATTRIBUTION.md
@@ -2,7 +2,7 @@
 
 ## Icons
 
-Edifici, logistica, Core, droni e oggetti (`conveyor-*`, `junction`, `splitter`, `sorter`, `miner*`, `smelter*`, `assembler*`, `extractor`, `generator*`, `power-node*`, `core-*`, `drone-*`, le 12 icone degli oggetti `<id>.png` e i loro sprite per i nastri `<id>-belt.png`) sono pixel-art originale generata da `tools/art/genera.py`: nessuna attribuzione.
+Edifici, logistica, Core, droni e oggetti (`conveyor-*`, `junction`, `splitter`, `sorter`, `miner*`, `smelter*`, `assembler*`, `extractor`, `generator*`, `power-node*`, `core-*`, `drone-*`, le 12 icone degli oggetti `<id>.png` e i loro sprite per i nastri `<id>-belt.png`) e terreno (`terreno-*`, `parete-*`, `giacimento-*`, `deco-*`, `acqua-*-anim`) sono pixel-art originale generata da `tools/art/genera.py`: nessuna attribuzione.
 
 ### game-icons.net (CC BY 3.0)
 
